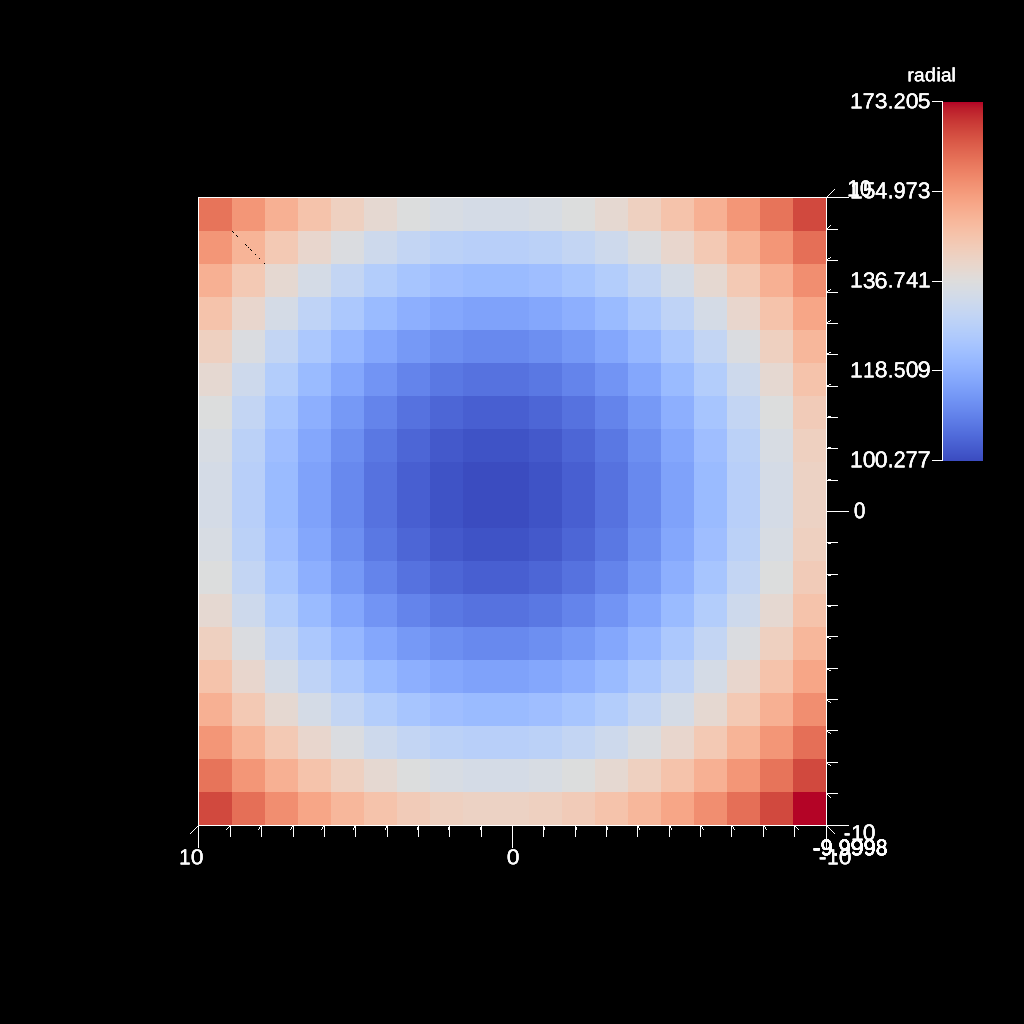
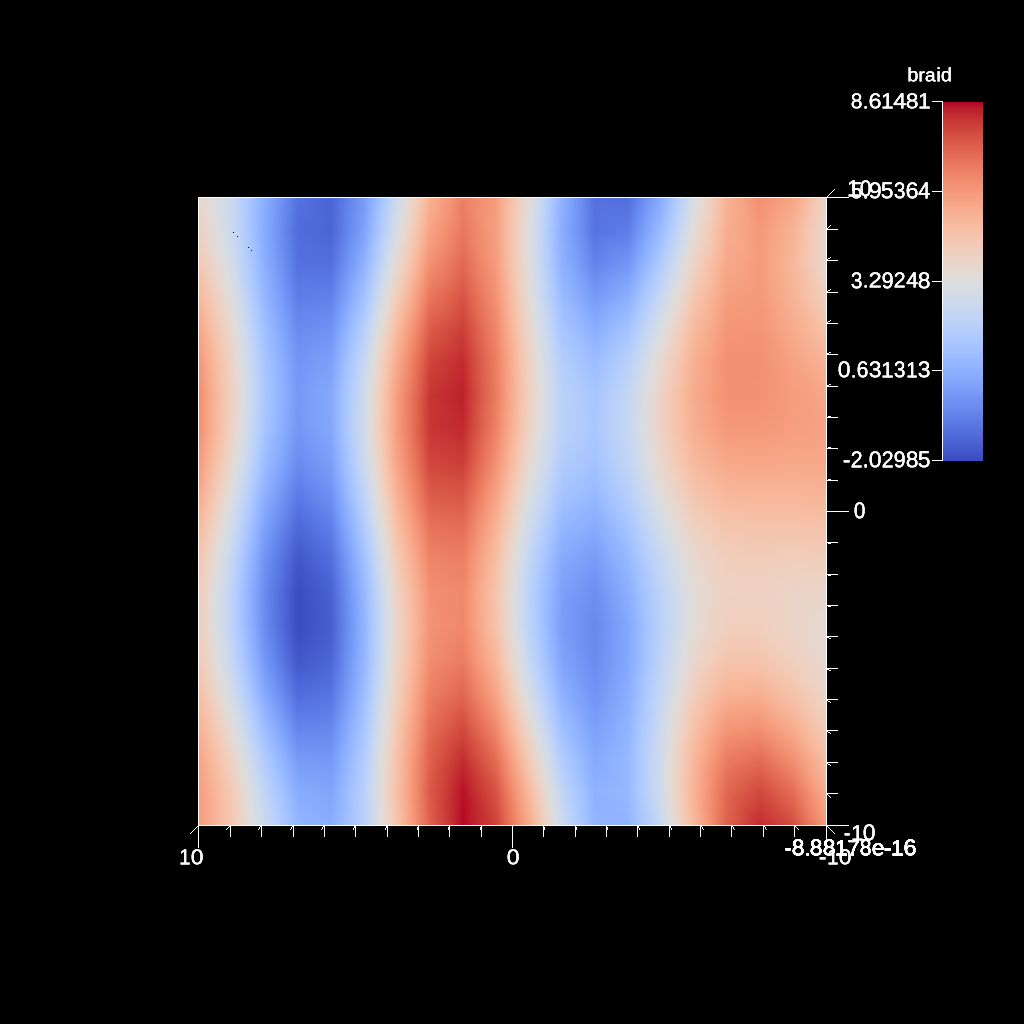
change example from radial to braid

diff --git a/src/tests/ascent/t_ascent_slice.cpp b/src/tests/ascent/t_ascent_slice.cpp
@@ -512,7 +512,7 @@ TEST(ascent_slice, test_auto_slice_z_axis)
     pipelines["pl1/f1/type"] = "auto_slice";
     // filter knobs
     conduit::Node &slice_params = pipelines["pl1/f1/params"];
-    slice_params["field"]    = "radial";
+    slice_params["field"]    = "braid";
     slice_params["levels"]   = 10;
     slice_params["normal/x"] = 0.f;
     slice_params["normal/y"] = 0.f;
@@ -520,7 +520,7 @@ TEST(ascent_slice, test_auto_slice_z_axis)
 
     conduit::Node scenes;
     scenes["s1/plots/p1/type"]     = "pseudocolor";
-    scenes["s1/plots/p1/field"]    = "radial";
+    scenes["s1/plots/p1/field"]    = "braid";
     scenes["s1/plots/p1/pipeline"] = "pl1";
     scenes["s1/image_prefix"]      = output_file;
 
@@ -598,7 +598,7 @@ TEST(ascent_slice, test_auto_slice_x_axis)
     pipelines["pl1/f1/type"] = "auto_slice";
     // filter knobs
     conduit::Node &slice_params = pipelines["pl1/f1/params"];
-    slice_params["field"]    = "radial";
+    slice_params["field"]    = "braid";
     slice_params["levels"]   = 10;
     slice_params["normal/x"] = 1.f;
     slice_params["normal/y"] = 0.f;
@@ -606,7 +606,7 @@ TEST(ascent_slice, test_auto_slice_x_axis)
 
     conduit::Node scenes;
     scenes["s1/plots/p1/type"]             = "pseudocolor";
-    scenes["s1/plots/p1/field"]            = "radial";
+    scenes["s1/plots/p1/field"]            = "braid";
     scenes["s1/plots/p1/pipeline"]         = "pl1";
     scenes["s1/renders/r1/camera/azimuth"] = 90.0;
     scenes["s1/renders/r1/image_prefix"]   = output_file;
@@ -685,7 +685,7 @@ TEST(ascent_slice, test_auto_slice_y_axis)
     pipelines["pl1/f1/type"] = "auto_slice";
     // filter knobs
     conduit::Node &slice_params = pipelines["pl1/f1/params"];
-    slice_params["field"]    = "radial";
+    slice_params["field"]    = "braid";
     slice_params["levels"]   = 10;
     slice_params["normal/x"] = 0.f;
     slice_params["normal/y"] = 1.f;
@@ -693,7 +693,7 @@ TEST(ascent_slice, test_auto_slice_y_axis)
 
     conduit::Node scenes;
     scenes["s1/plots/p1/type"]               = "pseudocolor";
-    scenes["s1/plots/p1/field"]              = "radial";
+    scenes["s1/plots/p1/field"]              = "braid";
     scenes["s1/plots/p1/pipeline"]           = "pl1";
     scenes["s1/renders/r1/camera/elevation"] = 90.0;
     scenes["s1/renders/r1/image_prefix"]     = output_file;
@@ -772,7 +772,7 @@ TEST(ascent_slice, test_auto_slice_xy_axis)
     pipelines["pl1/f1/type"] = "auto_slice";
     // filter knobs
     conduit::Node &slice_params = pipelines["pl1/f1/params"];
-    slice_params["field"]    = "radial";
+    slice_params["field"]    = "braid";
     slice_params["levels"]   = 10;
     slice_params["normal/x"] = 1.f;
     slice_params["normal/y"] = 1.f;
@@ -780,7 +780,7 @@ TEST(ascent_slice, test_auto_slice_xy_axis)
 
     conduit::Node scenes;
     scenes["s1/plots/p1/type"]               = "pseudocolor";
-    scenes["s1/plots/p1/field"]              = "radial";
+    scenes["s1/plots/p1/field"]              = "braid";
     scenes["s1/plots/p1/pipeline"]           = "pl1";
     scenes["s1/renders/r1/camera/azimuth"]   = 90.0;
     scenes["s1/renders/r1/camera/elevation"] = 90.0;

diff --git a/src/docs/sphinx/Actions/Pipelines.rst b/src/docs/sphinx/Actions/Pipelines.rst
@@ -320,7 +320,7 @@ Additionally, if the normal is ``(0,1,0)`` and the camera needs to point down th
   slice_params["normal/x"] = 0.f;   
   slice_params["normal/y"] = 0.f;   
   slice_params["normal/z"] = 1.f; 
-  slice_params["field"] = "radial";
+  slice_params["field"] = "braid";
   slice_params["levels"] = 10;
 
 .. _autoslicefig:
@@ -341,14 +341,14 @@ Additionally, if the normal is ``(0,1,0)`` and the camera needs to point down th
   slice_params["normal/x"] = 1.f;   
   slice_params["normal/y"] = 0.f;   
   slice_params["normal/z"] = 0.f; 
-  slice_params["field"] = "radial";
+  slice_params["field"] = "braid";
   slice_params["levels"] = 10;
 
   conduit::Node scenes;
   // add a plot of pipeline 1
   scenes["s1/plots/p1/type"] = "pseudocolor";
   scenes["s1/plots/p1/pipeline"] = "pl1";
-  scenes["s1/plots/p1/field"] = "radial";
+  scenes["s1/plots/p1/field"] = "braid";
   //Need to turn camera 90 degrees horizontally
   //in order to point down x-axis
   scenes["s1/renders/r1/camera/azimuth"] = 90.0;
@@ -372,14 +372,14 @@ Additionally, if the normal is ``(0,1,0)`` and the camera needs to point down th
   slice_params["normal/x"] = 0.f;   
   slice_params["normal/y"] = 1.f;   
   slice_params["normal/z"] = 0.f; 
-  slice_params["field"] = "radial";
+  slice_params["field"] = "braid";
   slice_params["levels"] = 10;
 
   conduit::Node scenes;
   // add a plot of pipeline 1
   scenes["s1/plots/p1/type"] = "pseudocolor";
   scenes["s1/plots/p1/pipeline"] = "pl1";
-  scenes["s1/plots/p1/field"] = "radial";
+  scenes["s1/plots/p1/field"] = "braid";
   //Need to turn camera 90 degrees vertically
   //in order to point down y-axis
   scenes["s1/renders/r1/camera/elevation"] = 90.0;
